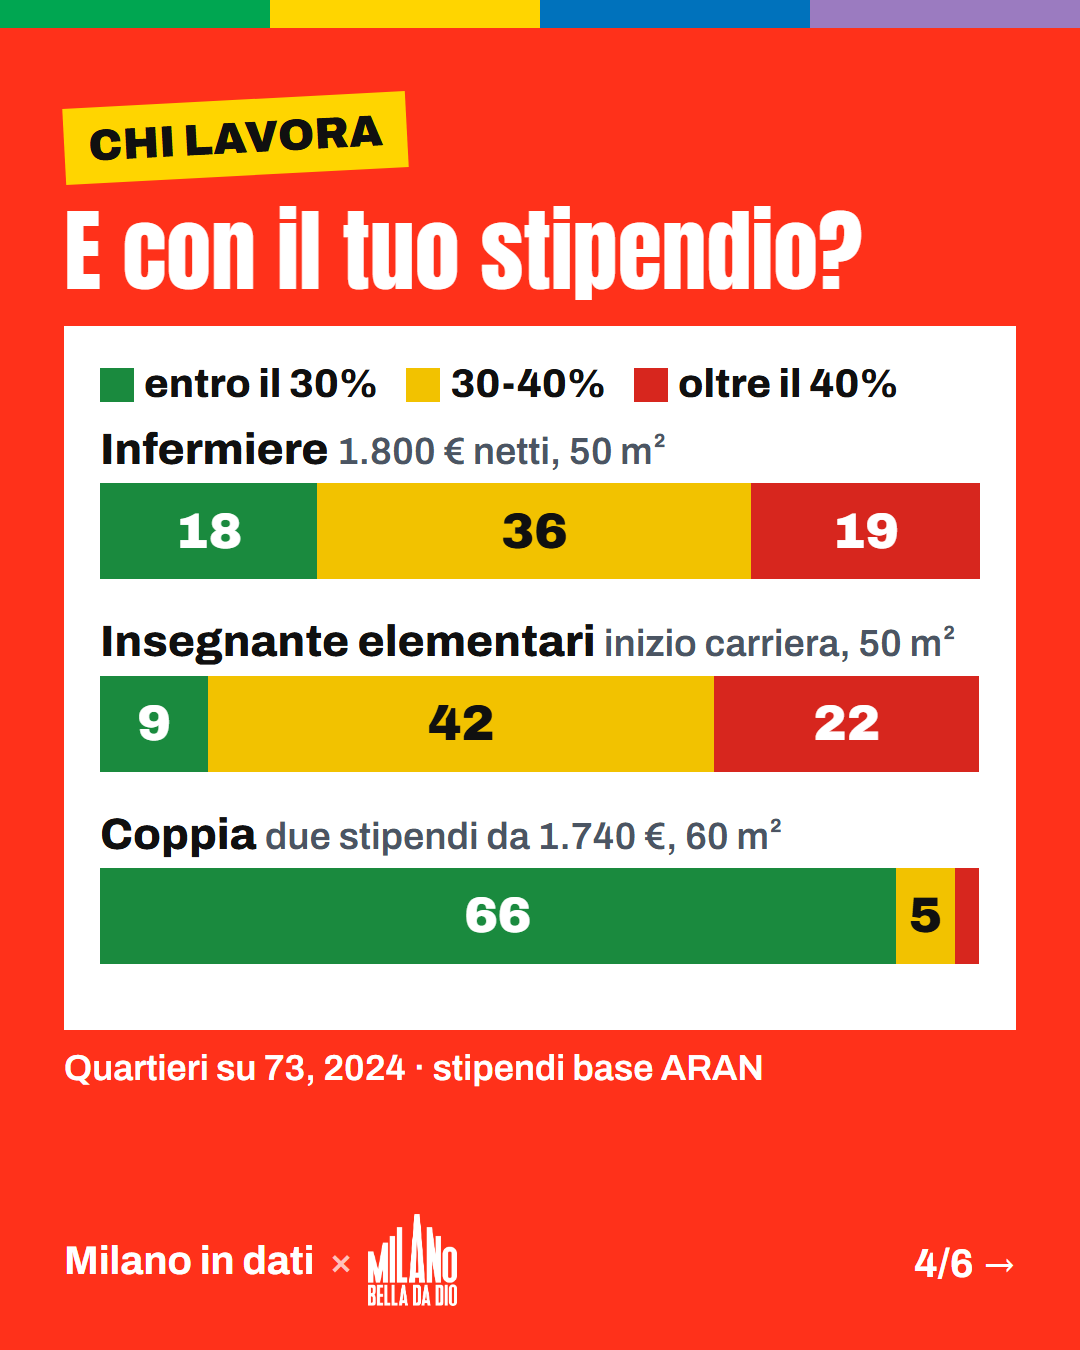
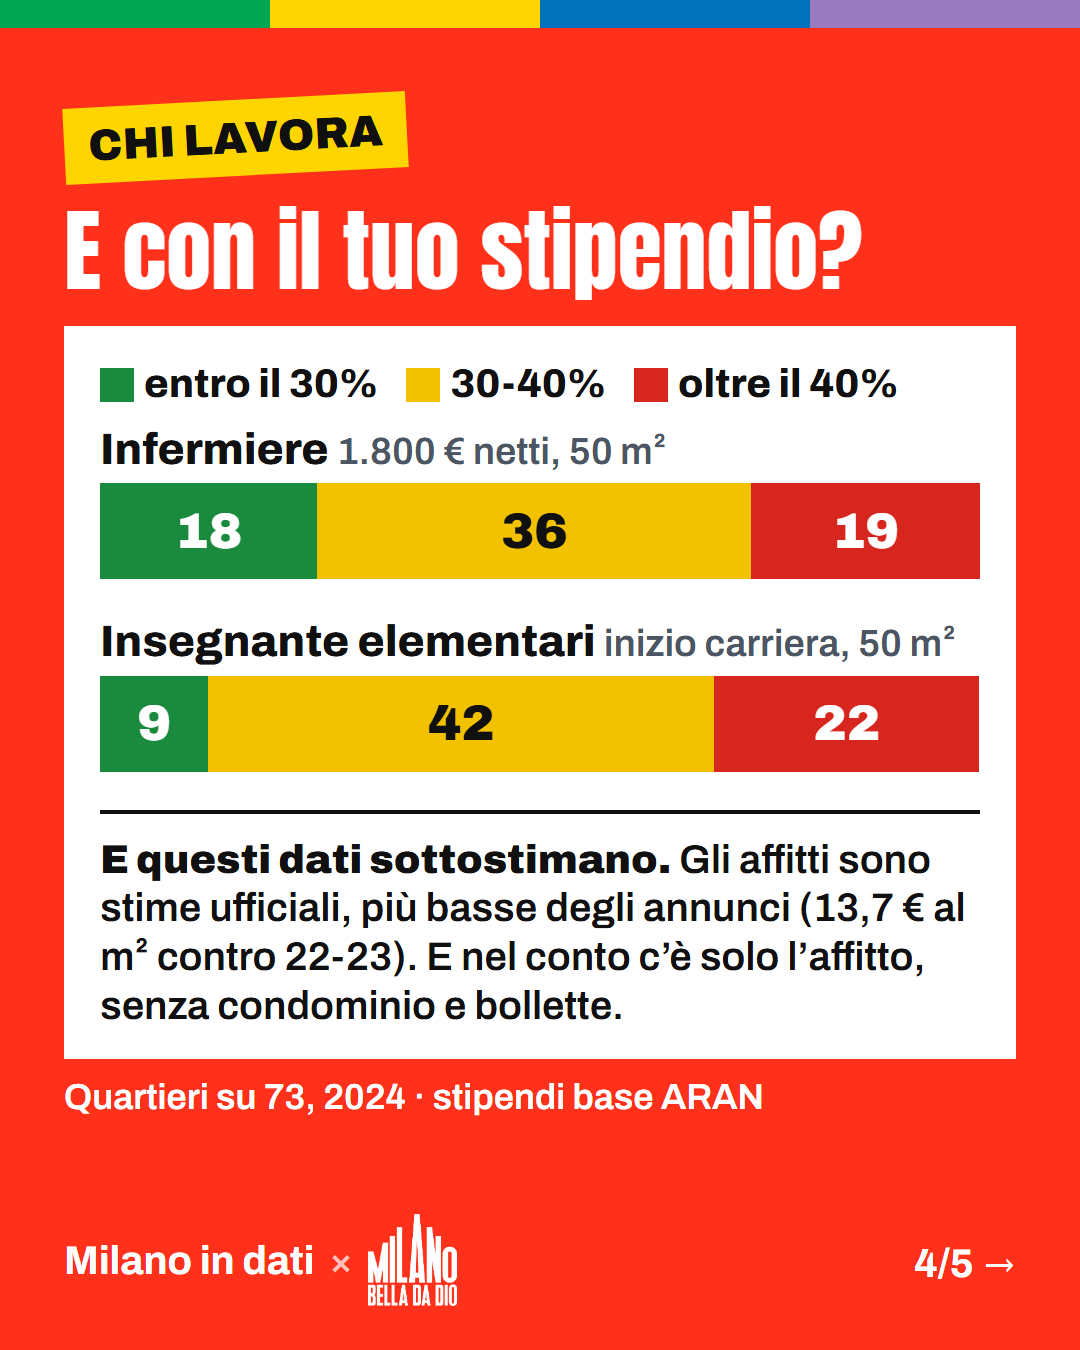
Anteprima carosello casa: versione finale in 5 slide

Changed region(s): [[0.0611, 0.5911, 0.9472, 0.84]]

diff --git a/docs/anteprima/instagram/index.html b/docs/anteprima/instagram/index.html
@@ -1,1 +1,1 @@
-<!doctype html><html lang="it"><head><meta charset="utf-8"><meta name="viewport" content="width=device-width,initial-scale=1"><meta name="robots" content="noindex,nofollow"><title>Anteprima post Instagram casa</title><style>body{margin:0;background:#101010;color:#fff;font-family:system-ui,Arial,sans-serif}main{max-width:540px;margin:0 auto;padding:16px}h1{font-size:22px;margin:8px 0 4px}p{margin:0 0 14px;color:#ccc}h2{font-size:16px;margin:20px 0 6px;color:#aaa}img{display:block;width:100%;height:auto}</style></head><body><main><h1>Post casa per Milano Bella da Dio</h1><p>Anteprima, non pubblicato. Numeri sul netto: 50 m² da soli, 60 in coppia, 2024.</p><h2>1/6</h2><img src="casa_1.png" alt="Slide 1"><h2>2/6</h2><img src="casa_2.png" alt="Slide 2"><h2>3/6</h2><img src="casa_3.png" alt="Slide 3"><h2>4/6</h2><img src="casa_4.png" alt="Slide 4"><h2>5/6</h2><img src="casa_5.png" alt="Slide 5"><h2>6/6</h2><img src="casa_6.png" alt="Slide 6"></main></body></html>
+<!doctype html><html lang="it"><head><meta charset="utf-8"><meta name="viewport" content="width=device-width,initial-scale=1"><meta name="robots" content="noindex,nofollow"><title>Anteprima post Instagram casa</title><style>body{margin:0;background:#101010;color:#fff;font-family:system-ui,Arial,sans-serif}main{max-width:540px;margin:0 auto;padding:16px}h1{font-size:22px;margin:8px 0 4px}p{margin:0 0 14px;color:#ccc}h2{font-size:16px;margin:20px 0 6px;color:#aaa}img{display:block;width:100%;height:auto}</style></head><body><main><h1>Post casa per Milano Bella da Dio</h1><p>Anteprima, non pubblicato. Numeri sul netto: 50 m² da soli, 60 in coppia, 2024.</p><h2>1/5</h2><img src="casa_1.png" alt="Slide 1"><h2>2/5</h2><img src="casa_2.png" alt="Slide 2"><h2>3/5</h2><img src="casa_3.png" alt="Slide 3"><h2>4/5</h2><img src="casa_4.png" alt="Slide 4"><h2>5/5</h2><img src="casa_5.png" alt="Slide 5"></main></body></html>

diff --git a/JOURNAL.md b/JOURNAL.md
@@ -3235,3 +3235,4 @@ Area C: anello dei varchi sostituito da barre ordinate accanto alla mappa
 - 18/11: metratura di mezzo (conti mediano 2024, quartieri su 73, lordo/netto; netto 2015): 40 m² 60/51 (58); 45 m² 54/37 (49); 50 m² 51/9 (43); 55 m² 43/5 (32); 60 m² 18/2 (26). Il salto tra 45 e 50 m² è vero: una trentina di quartieri ha affitti OMI tra 10,5 e 11,5 €/m², e il 30% di 1.740 € netti (522 €/mese) li taglia fuori. Davide sceglie 50 m² da soli (60 in coppia).
 - 18/11: anteprima a 50 m² online. Numeri all'apertura (netto, 50 m², 2024): 5 su 69 col reddito tipico del quartiere (2015: 41), 9 su 73 col mediano (2015: 43), 0 su 73 per il quarto più basso, 22.800 € netti nel quartiere mediano, 39% del reddito mediano netto (2015: 35%), infermiere 18 su 73. In attesa dell'ok di Davide per pubblicare.
 - 18/11: Davide: "bella, tieni solo il netto e rifai carousel per mbdd". Pagina casa pubblicata definitiva SOLO SUL NETTO (interruttore tolto), 50 m² da soli e 60 in coppia; paragrafo "Dal lordo al netto"; tessera home "9 su 73". Carosello casa rifatto sul netto (9 su 73, erano 43 nel 2015; infermiere 18, insegnante inizio carriera 9, coppia 66 in 60 m²; affitti stimati 13,7 contro 22-23 €/m² negli annunci), anteprima su milanoindati.it/anteprima/instagram/.
+- 18/11: carosello casa finale per Gio, 5 slide: tolta la riga coppia (con 80 m² la coppia di due mediani ha 51 quartieri su 73, non pochi; una famiglia monoreddito in 80 m² ne ha 0) e al suo posto "E questi dati sottostimano" (affitti stimati sotto gli annunci; solo affitto, senza condominio e bollette); tolta la slide del limite che ripeteva. Scraping di Idealista/Subito escluso (condizioni d'uso e blocchi anti-robot).
